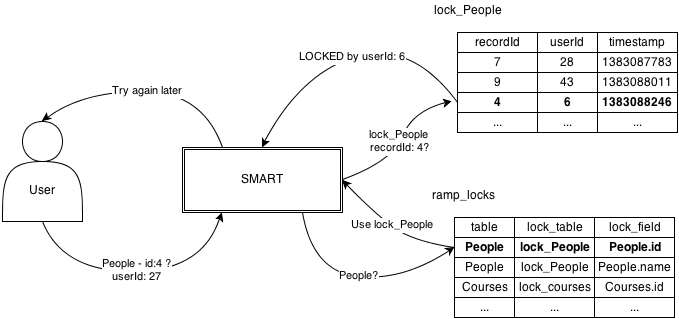
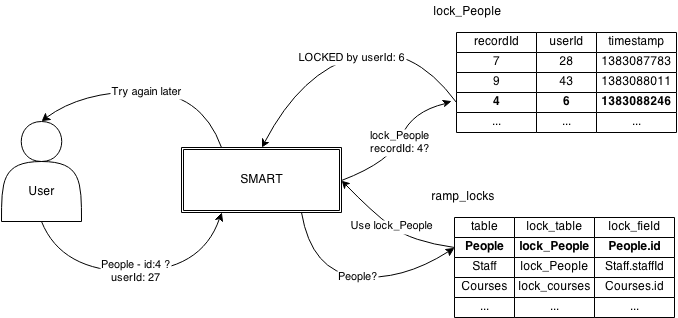
Updated the lock design diagrams and made other changes that were recommended after visiting the writing center

diff --git a/sip.tex b/sip.tex
@@ -45,25 +45,25 @@ This is where my acknowledgements will go.
 
 \subsection{Background}
 
-After a destructive 11-year civil war that ended in 2001, the nation of Sierra Leone remains in the process of rebuilding its governmental and educational infrastructure. The University of Sierra Leone and Njala University, the country’s two major universities, play an important role in providing education, supporting research, and producing alumni who will be instrumental in rebuilding their nation. As both universities continue to develop and expand, using accessible academic and administrative records will be a critical component in institutional capacity building. Currently, these institutions maintain their records purely on paper. By managing computerized records, they will be able to further establish and communicate educational requirements, monitor and support students' educational progress, forecast institutional needs, and assess and document progress toward institutional goals.
+After a destructive 11-year civil war that ended in 2001, the nation of Sierra Leone remains in the process of rebuilding its governmental and educational infrastructure. The University of Sierra Leone and Njala University, the country's two major universities, play an important role in providing education, supporting research, and producing alumni who will be instrumental in rebuilding their nation. As both universities continue to develop and expand, using accessible academic and administrative records will be a critical component in institutional capacity building. Currently, these institutions maintain their records purely on paper. By managing computerized records, they will be able to further establish and communicate educational requirements, monitor and support students' educational progress, forecast institutional needs, and assess and document progress toward institutional goals.
 
 Although electronic records are a high priority for these universities, currently no free or Open Source project exists which is suitably equipped to meet their needs. To address this issue, we have proposed combining two existing projects, the Record and Activity Management Program (RAMP), and System for Managing Academic Records and Transcripts (SMART) to produce a dynamic and adaptable system for electronic record keeping.
 
 RAMP provides a framework which makes the creation and implementation of dynamic websites much more flexible, by working off of a dynamically defined database structure. In essence, RAMP allows the creation and use of tables and activities within a web application, without explicitly identifying the tables in the code itself. This is instead done by defining the desired structure of data to be used in a series of configuration files. RAMP allows users to view these tables (or a selected set of columns), search for entries based on certain field values, modify, add and delete records, all in a fashion which is designed to be generic and easily adaptable to different database schemas.
 
-SMART was originally a system used by the Registrar’s Office at Kalamazoo College for managing academic records and electronic course registration and placement. It consists of a database structure which has been tuned to the needs of an academic institution, with facilities for organizing curriculum records (including courses of study, courses or modules, and individual offerings), instructor records, and student records.
+SMART was originally a system used by the Registrar's Office at Kalamazoo College for managing academic records and electronic course registration and placement. It consists of a database structure which has been tuned to the needs of an academic institution, with facilities for organizing curriculum records (including courses of study, courses or modules, and individual offerings), instructor records, and student records.
 
 Each of these two projects is meritable in its own right, however by combining the two we hope to create a new kind of record management system that will be fully functional for academic institutions, yet flexible enough to adapt to the different internal structuring of data within any given college or university. Currently, these projects are being combined to create a new SMART system which runs using RAMP as its framework for managing and displaying data. By taking this approach, we can take advantage of the deeply defined database structure utilized in the previous SMART system, while running atop the flexibly stable RAMP system for managing the data. In doing so, we aim to create a free, robust, and dynamic records management and administration infrastructure for these two universities. Ideally, the final product will also be one which could be easily adapted to different schools and systems with minimal changes to code, providing a solution that any variety of universities would be able to implement in the future.
 
 \subsection[Structure of SMART]{Structure of SMART\footnote{From this point onward, the term "SMART" will be used in reference to the newer system which is a combination of the RAMP and SMART systems as described previously.}}
 
-Several of the most popular web technologies are integrated throughout SMART. At the most basic level, SMART operates on top of a combination of an Apache web server, MySQL database, and the PHP server-side scripting language. This is a very common web-development setup typically referred to as AMP\footnote{For more information on AMP stacks, please see: CITATION}. However, on top of these basic tools, the core functionality and implementation of SMART is made possible through the use of a PHP library known as Zend Framework.
+Several of the most popular web technologies are integrated throughout SMART. At the most basic level, SMART operates on top of a combination of an Apache web server, MySQL database, and the PHP server-side scripting language. This is a very common web-development setup typically referred to as AMP. However, on top of these basic tools, the core functionality and implementation of SMART is made possible through the use of a PHP library known as Zend Framework.
 
 Zend is a popular, modular implementation of a Model-View-Controller (MVC) framework used for powering web applications written in PHP. The MVC application development paradigm outlines a flexible yet powerful structure for the creation of complex applications, and so was perfectly suited for the SMART project. The basic principle is concerned with the separation of responsibilities within the program. The Model component is responsible for managing all direct interactions with the data, outlining its structure, and providing the necessary interfaces and functions to interact with it. On the opposite end of the spectrum, the View components are purely responsible for what the user sees from the application, and handling all logic related to the presentation of data. The Controller is the bridge which connects the data and the user interface, defining and mediating interactions between the Model and View. Whenever data is updated in the View, the Model needs to know how to update the database, and contrastingly, when an update is made to the data the View needs to be notified to present the updated data. Managing these interactions is the core function of a Controller. By splitting up responsibilities in this fashion, the MVC framework keeps the structure of a project neatly organized while still fulfilling the requirements of a complex and dynamic application.
 
 \begin{figure}[h]
     \begin{center}
-        \centerline{\includegraphics[width=2.3in]{diagrams/MVC.png}}
+        \centerline{\includegraphics[width=2.1in]{diagrams/MVC.png}}
     \end{center}
     \begin{spacing}{1.0}\caption{A simple diagram of a Model-View-Controller layout\protect\footnotemark}\end{spacing}
 \end{figure}
@@ -74,7 +74,7 @@ Along with the expansive and powerful set of application development tools provi
 
 In SMART, Activities can be thought of as a way for the user to navigate through the program and find the data they are looking for. In essence, an Activity is a webpage which provides a submenu presenting a certain set of Tables that a user can view, gathered under a common heading. However, like much of SMART these Activities are defined not explicitly in code, but in separate configuration files, making them easy to rearrange, modify, and expand. In addition to redirecting users to specific Tables, there are a variety of other Activities that can be used to display information or fire specific actions. For full documentation about Activities, please refer to Appendix A.
 
-Tables are at the heart of SMART’s functionality. Without a clean and secure way of accessing and manipulating data, users would not be able to effectively and efficiently achieve their record management goals. In SMART all Tables are defined in configuration files known as Table Settings. These files outline which tables from the database are to be used, which columns should be shown, and specify the labels and formatting of each field. Additionally, Table Settings can outline connections between different database tables, and consolidate data from multiple sources into one Table that is displayed to the user, allowing for the construction of easy-to-use structures that abstract away the underlying complexity of the database. For full documentation about Tables, please refer to Appendix B.
+Tables are at the heart of SMART's functionality. Without a clean and secure way of accessing and manipulating data, users would not be able to effectively and efficiently achieve their record management goals. In SMART all Tables are defined in configuration files known as Table Settings. These files outline which tables from the database are to be used, which columns should be shown, and specify the labels and formatting of each field. Additionally, Table Settings can outline connections between different database tables, and consolidate data from multiple sources into one Table that is displayed to the user, allowing for the construction of easy-to-use structures that abstract away the underlying complexity of the database. For full documentation about Tables, please refer to Appendix B.
 
 \begin{figure}[h]
     \begin{center}
@@ -97,21 +97,21 @@ On the other hand, the pessimistic locking strategy uses what is called a “loc
 
 \subsection{Challenges and Considerations}
 
-In approaching the issue of record locking, SMART presents an interesting challenge to finding an appropriate implementation. One significant complexity in the problem, is that a “Table” in SMART often consists of data that is pulled from several different tables in the database. For example, when a user attempts to edit the data for a specific course offering, they may see information about the course itself, about the professor of the course, and about the current enrollment. While it makes sense to show all of this information on one page in SMART, the offering’s information comes from a Courses table, while the professor and student information comes from a separate Person table. Although the application conveniently abstracts away the underlying database structure, the appropriate entries in both tables must all be locked in order to ensure that all applicable data is protected from overwrites.
+In approaching the issue of record locking, SMART presents an interesting challenge to finding an appropriate implementation. One significant complexity in the problem, is that a “Table” in SMART often consists of data that is pulled from several different tables in the database. For example, when a user attempts to edit the data for a specific course offering, they may see information about the course itself, about the professor of the course, and about the current enrollment. While it makes sense to show all of this information on one page in SMART, the offering's information comes from a Courses table, while the professor and student information comes from a separate Person table. Although the application conveniently abstracts away the underlying database structure, the appropriate entries in both tables must all be locked in order to ensure that all applicable data is protected from overwrites.
 
 Some of these tables, such as the Person and Courses, have a high-frequency usage throughout various Activities in SMART, and therefore strict locking of that data is critical to maintaining its integrity. However, other tables may be accessed much less frequently, and therefore implementing a full-featured record locking system could contribute significant complexity to the structure of data and program execution, with little benefit in terms of realized record management. For example, as student information and course enrollment changes, clearly the Student and Courses tables will be used frequently, and need locking mechanisms in place. However, a Terms table containing information about the start and end of academic terms will likely only be edited once or twice each year, and any mistaken overwrites would be non-detrimental and easily fixed. Therefore, creating a lock table and setting up the locking infrastructure for Terms is too much effort with not enough payback. Thinking this way about which tables to lock is a necessary for the producing an efficient and sensible implementation of record locking throughout SMART.
 
 \subsection{Design of Specific Implementation}
 
-Taking these various factors into account, we decided to implement a strongly pessimistic record locking system. In making this decision there were several considerations that were addressed. Firstly, the information that is most frequently edited in an academic records system generally has a direct relationship to a student or professor’s work, and so any mistaken changes to this data could have a significant and stressful impact. Therefore, locking the data in a pessimistic fashion makes the most sense to minimize such mistakes. Additionally, maintaining version numbers on the data, as is done in optimistic locking systems, adds a significant amount of overhead in its implementation and development, and so for the sake of both ease-of-implementation and efficiency, a pessimistic approach was chosen.
+Taking these various factors into account, we decided to implement a strongly pessimistic record locking system. In making this decision there were several considerations that were addressed. Firstly, the information that is most frequently edited in an academic records system generally has a direct relationship to a student or professor's work, and so any mistaken changes to this data could have a significant and stressful impact. Therefore, locking the data in a pessimistic fashion makes the most sense to minimize such mistakes. Additionally, maintaining version numbers on the data, as is done in optimistic locking systems, adds a significant amount of overhead in its implementation and development, and so for the sake of both ease-of-implementation and efficiency, a pessimistic approach was chosen.
 
-In general, pessimistic systems tend to have some sort of mechanism for notifying a locked-out user when the desired resource has become available. While implementing this into SMART is definitely feasible, we have decided not to implement this feature, and instead simply notify a locked-out user to try again later. The reasoning behind this has to do with the working environment of a Registrar’s office. Typically, a particular employee may have a long list of updates that need to be made to a certain set of records, involving many different students, faculty, and courses. If they were to run into a record that was locked, they would likely not wait around, and instead continue on to the next item on their list, retrying the locked record later on. With a workflow such as this, it would not be pragmatic to expend resources checking for records to unlock when the majority of the time the user will simply brush over locked data and move on, rendering the checking mechanism unnecessary.
+In general, pessimistic systems tend to have some sort of mechanism for notifying a locked-out user when the desired resource has become available. While implementing this into SMART is definitely feasible, we have decided not to implement this feature, and instead simply notify a locked-out user to try again later. The reasoning behind this has to do with the working environment of a Registrar's office. Typically, a particular employee may have a long list of updates that need to be made to a certain set of records, involving many different students, faculty, and courses. If they were to run into a record that was locked, they would likely not wait around, and instead continue on to the next item on their list, retrying the locked record later on. With a workflow such as this, it would not be pragmatic to expend resources checking for records to unlock when the majority of the time the user will simply brush over locked data and move on, rendering the checking mechanism unnecessary.
 
 \begin{center}
 \begin{figure}[h]
     \centering
     \centerline{\includegraphics[width=7in]{diagrams/InitialLockDesign.png}}
-    \begin{spacing}{1.0}\caption{Design of initially proposed locking system. When the user requests a particular record, the record and user IDs are sent to SMART, which then checks the appropriate lock table and responds. In this model, SMART is programmed with knowledge of the lock table structure in the database.}\end{spacing}
+    \begin{spacing}{1.0}\caption{Design of initially proposed locking system. When the user requests a particular record, the record and user IDs are sent to SMART, which then checks the appropriate lock table and notifies the user if there is a lock. In this model, SMART is programmed with knowledge of the lock table structure in the database.}\end{spacing}
 \end{figure}
 \end{center}
 
@@ -119,9 +119,9 @@ In general, pessimistic systems tend to have some sort of mechanism for notifyin
 
 After coming up with an initial design we set out to begin implementation, and immediately ran into the issue of defining which lock tables in the database would correspond to different Tables in SMART. Originally, our design lent itself to explicitly including logic within the code for determining which lock table corresponded to a certain set of data. However, the power of SMART is that table relationships are not explicitly defined, but instead can be easily configured through the use of Table Settings. To follow this paradigm, it is necessary to define locking relationships in a dynamic fashion, such that SMART could be implemented on any database structure without having to modify the code itself.
 
-One approach would be to define specific locks for each field of a Table in the Table Setting file. This is the approach used by SMART for mapping specific fields that are displayed to the user to the columns of the corresponding database table. The issue arises when considering the possibility of an incorrectly defined Table Setting. Imagine that a user creates a new table setting but neglects to set up the locking mechanisms. If such mechanisms were purely defined by the files, the possibility exists for a user to create a Table without any locking, exposing a significant vulnerability in a fundamental part of the system.
+One approach would be to define specific locks for each field of a Table in the Table Setting file. This is the approach used by SMART for mapping specific fields that the users sees to the columns of the corresponding database table. The issue arises when considering the possibility of an incorrectly defined Table Setting. Imagine that a user creates a new table setting but neglects to set up the locking mechanisms. If such mechanisms were purely defined by the files, the possibility exists for a user to create a Table without any locking, exposing a significant vulnerability in a fundamental part of the system.
 
-Our solution to this problem is to instead create a new database table which maintains the information about mapping specific data to its appropriate lock table. Currently, SMART assumes the existence of only two specific tables: \code{ramp\_auth\_auths}, and \code{ramp\_auth\_users}. These tables are responsible for logic related to user authentications and permissions, while all other aspects of the applications are flexibly defined in Table Setting files. By adding another program-specified table (ie. \code{ramp\_locks}) and using it to manage locking information, we can force specific locking relationships on the database level, as opposed to the settings level. Doing so means that locks are enforced completely regardless of any specific Table Setting, thereby making it impossible for a user to accidentally create unlocked access to the data. The downside to this approach is that these creates more work for the database administrator during the initial setup of the database, however the extra effort is necessary to ensure a secure and stable record locking mechanism
+Our solution to this problem is to instead create a new database table which maintains the information about mapping specific data to its appropriate lock table. Currently, SMART assumes the existence of only two specific tables: \code{ramp\_auth\_auths}, and \code{ramp\_auth\_users}. These tables are responsible for logic related to user authentications and permissions, while all other aspects of the application are flexibly defined in Table Setting files. By adding another program-specified table (ie. \code{ramp\_locks}) and using it to manage locking information, we can force specific locking relationships on the database level, as opposed to the settings level. Doing so means that locks are enforced completely regardless of any specific Table Setting, thereby making it impossible for a user to accidentally create unlocked access to the data. The downside to this approach is that it creates more work for the database administrator during the initial setup of the database. However, the extra effort is necessary to ensure a secure and stable record locking mechanism
 
 \begin{center}
 \begin{figure}[h]
@@ -131,31 +131,33 @@ Our solution to this problem is to instead create a new database table which mai
 \end{figure}
 \end{center}
 
-As shown in the figure above, the proposed \code{ramp\_locks} table contains three columns: table, \code{lock\_table}, and \code{lock\_field}. As one might expect, \code{table} and \code{lock\_table} specify the name of the table in the database and the corresponding \code{lock\_table} which will manage its locks. Beyond these basic record locking components, the \code{lock\_field} column gives this particular locking mechanism enhanced flexibility. Ultimately, the entry in \code{lock\_field} will correspond to the \code{recordId} column of the \code{lock\_table}. Because any column in the table can be used in \code{lock\_field}, this allows for foreign keys to be used as a locking trigger, which in turn creates the possibility for powerful locking schemes on tables that pull data from multiple sources. In the example shown in the figure, when a user begins editing a particular entry in the Staff table, SMART will use the value of Staff.staffId as the lock in \code{lock\_person}. Because of this, if another user tries to edit the Person with that ID from any other part of SMART, they will be notified that the resource is locked. In this way, record locks are able to be persistent regardless of what particular Activity they originate from.
+As shown in the figure above, the proposed \code{ramp\_locks} table contains three columns: \code{table}, \code{lock\_table}, and \code{lock\_field}. As one might expect, \code{table} and \code{lock\_table} specify the name of the table in the database and the corresponding \code{lock\_table} which will manage its locks. Beyond these basic record locking components, the \code{lock\_field} column gives this particular locking mechanism enhanced flexibility. Ultimately, the entry in \code{lock\_field} will correspond to the \code{recordId} column of the \code{lock\_table}. Because any column in the table can be used in \code{lock\_field}, this allows for both primary and foreign keys to be used as a locking trigger, which in turn creates the possibility for powerful locking schemes on tables that pull data from multiple sources. In the example shown in the figure, when a user begins editing a particular entry in the Staff table, SMART will use the value of Staff.staffId as the lock in \code{lock\_person}. Because of this, if another user tries to edit the Person with that ID from any other part of SMART, they will be notified that the resource is locked. In this way, record locks are able to be persistent regardless of what particular Activity they originate from. This feature of our record locking system is the critical component in establishing a technique that can handle the requirements of SMART.
 
 \section{Alternative Implementations and Solutions}
 
-Throughout this paper, the majority of our exploration of record locking has been specifically attuned to the needs and nature of SMART. However, the development of our implementation and its various features and components involved analyzing the needs of the SMART system, and the consideration of a variety of possibilities. Next, we will discuss alternative systems for record locking, including potential features for alternative pessimistic systems, and optimistic alternatives.
+Throughout this paper, the majority of our exploration of record locking has been specifically attuned to the needs and nature of SMART. However, the development of our implementation and its various features and components involved in-depth analysis of this specific system, and the consideration of a variety of possibilities. Next, we will discuss alternative systems for record locking, including potential features for other pessimistic systems, and optimistic alternatives.
 
 \subsection{Pessimistic Systems}
-One such additional feature for a pessimistic system would be a mechanism for notifying a locked-out user when the desired resource has become available, as described previously. Such a notification typically involves an Asynchronous Javascript and XML (AJAX) function call that pings the server at regular intervals to check if the data is still locked. Once the record is unlocked, the user is then redirected to the editing page, which has been populated with the recently updated information. In such a system as this, it is also necessary to implement some form of access queue, to handle the scenario in which several users attempt to access the same page while a record is being edited. This access queue could be relatively easily implemented by performing additional logic when checking a record’s availability, as demonstrated in the code fragment below.
+One such additional feature for a pessimistic system would be a mechanism for notifying a locked-out user when the desired resource has become available, as described previously. Such a notification typically involves an Asynchronous Javascript and XML (AJAX) function call that pings the server at regular intervals to check if the data is still locked. Once the record is unlocked, the user is then redirected to the editing page, which has been populated with the recently updated information. In such a system as this, it is also necessary to implement some form of access queue, to handle the scenario in which several users attempt to access the same page while a record is being edited. This access queue could be implemented relatively easily by performing additional logic when checking a record's availability, as demonstrated in the code fragment below.
 
 INCLUDE EXAMPLE CODE/PSEUDOCODE HERE
 
-As opposed to our method of managing lock relationships using a separate \code{ramp\_locks} table in addition to a variety of lock tables, it would be possible for the database to be setup in such a way that every table had its own \code{lock\_table}. In this case, the software would simply need to know which tables were being accessed and immediately know which lock tables to use. For systems where there are numerous tables, many of which contain sensitive and frequently accessed information, a solution similar to this may be the most appropriate.
+As opposed to our method of managing lock relationships using a separate \code{ramp\_locks} table in addition to a variety of lock tables, it would be possible for the database to be setup in such a way that every table had its own \code{lock\_table}. In this case, the software would simply need knowledge of which tables were being accessed to immediately know which lock tables to use. For systems where there are numerous tables, many of which contain sensitive and frequently accessed information, a solution such as this may be the most appropriate.
 
 \subsection{Optimistic Systems}
-Alternatively, depending on the structure and purpose of the application an optimistic locking system may make more sense. In SMART, the sensitivity of data and workflow of academic records management implied that the use of pessimistic record locking was better suited for the project. Scenarios in which an optimistic solution would be better suited could include cases where it is unviable to make all users wait to edit a certain record, or where many unrelated users are accessing data from different locations. A perfect example of this kind of system is large, wiki type websites, such as Wikipedia. In optimistic systems such as these, typically the program must manage version numbers on all edits to records. When a user attempts to write data, the original version number is included with the submitted data and checked against the version number stored in the lock table. If there is a versioning conflict (ie. if another user has submitted new data during the interval that the initial user was editing), the user is then notified and must handle any conflicting data. 
+Alternatively, depending on the structure and purpose of the application an optimistic locking system may make more sense. In SMART, the sensitivity of data and workflow of academic records management implied that the use of pessimistic record locking was better suited for the project. Scenarios in which an optimistic solution would be better suited include cases where it is unviable to make all users wait to edit a certain record, or where many unrelated users are accessing data from different locations. A perfect example of this kind of system is a large, wiki type website, such as Wikipedia. In optimistic systems such as these, typically the program must manage version numbers on all edits to records. When a user attempts to write data, the original version number is included with the submitted data and checked against the version number stored in the lock table. If there is a versioning conflict (ie. if another user has submitted new data during the interval that the initial user was editing), the user is then notified and must handle any conflicting data. 
 
 INCLUDE EXAMPLE CODE/PSEUDOCODE HERE
 
-One of the primary advantages present in using an optimistic system as opposed to a pessimistic one is that all users are able to edit data simultaneously, only being locked out at the time of submission. If good systems are implemented for managing conflicts, optimistic systems have the potential to allow for much more efficient editing by many users. However, this method puts more responsibility on the user to keep make the appropriate decisions when dealing with conflicts and merging data. Furthermore, if conflicts are significant, than it may not be clear what is correct. While it creates the opportunity for concurrent data modification, optimistic record locking also opens up the possibility of significant frustrations for the end user.
+One of the primary advantages present in using an optimistic system as opposed to a pessimistic one is that all users are able to edit data simultaneously, only being locked out at the time of submission. If good systems are implemented for managing conflicts, optimistic systems have the potential to allow for much more efficient editing by many users. However, this method puts more responsibility on the user to make the appropriate decisions when dealing with conflicts and merging data. Furthermore, if the conflicts are significant, than it may not be clear which is correct. While it creates the opportunity for concurrent data modification, optimistic record locking also opens up the possibility of significant frustrations for the end user.
 
 \newpage
-
 \section{Conclusion}
 
 \subsection{Summary}
+Throughout this paper, we have explored various potential solutions to the problem of record locking. In the two major paradigms of solutions - pessimistic and optimistic locking - there are a variety of different approaches that may be suited to different kinds of software systems. Additionally, for any given record locking mechanism there are a several features and alterations that can be made to fine-tune the design pattern to a system’s needs, as well as increase the usability and maintainability of whatever locking system is to be implemented.
+
+By considering the merits and disadvantages of both pessimistic and optimistic systems, it was concluded that a strongly pessimistic approach was the most appropriate for meeting the needs of SMART. In addition to the traditional methodology of pessimistic record locking, it was necessary for us to include an additional layer of logic to preserve the dynamically defined table structure that is characteristic to SMART. To address this, we propose defining database locking relations in a required table called \code{ramp\_locks}, thereby enforcing record locking on a database level. While such a system adds additional overhead for an institution setting up SMART, it creates secure locking relationships that can maintain the integrity of data throughout the application.
 
 \subsection{The Future of SMART}
 
@@ -209,7 +211,7 @@ Further investigation is still needed to determine the minimum possible hardware
 \\
 
 \begin{spacing}{1.0}
-\noindent\textbf{Machine} \\
+\noindent\textbf{Machine Specifications} \\
 Linux Mint 14 Nadia \\
 Intel Core i5 M430 @ 2.27 GHz \\
 
